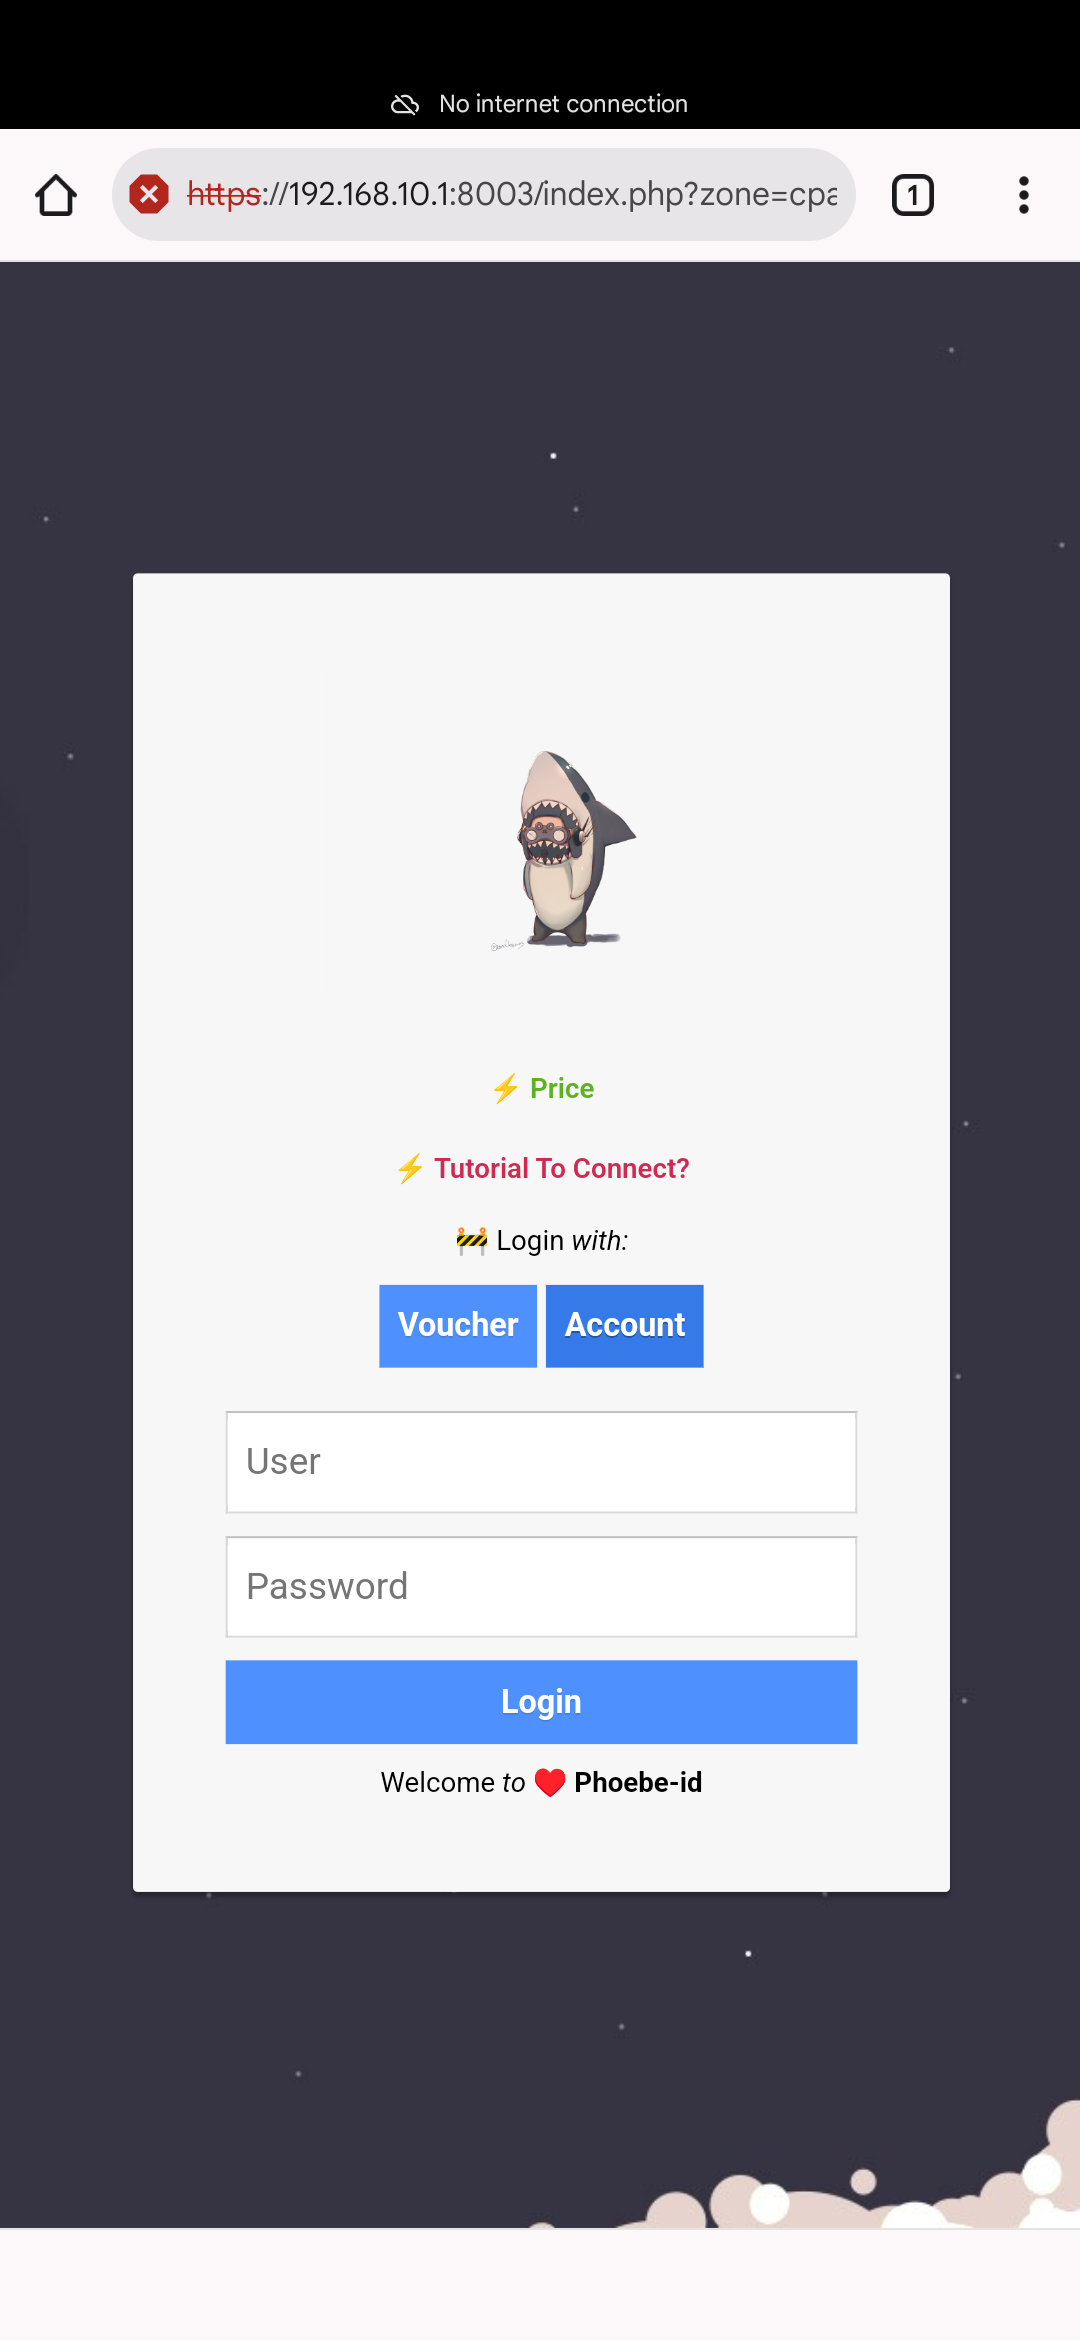
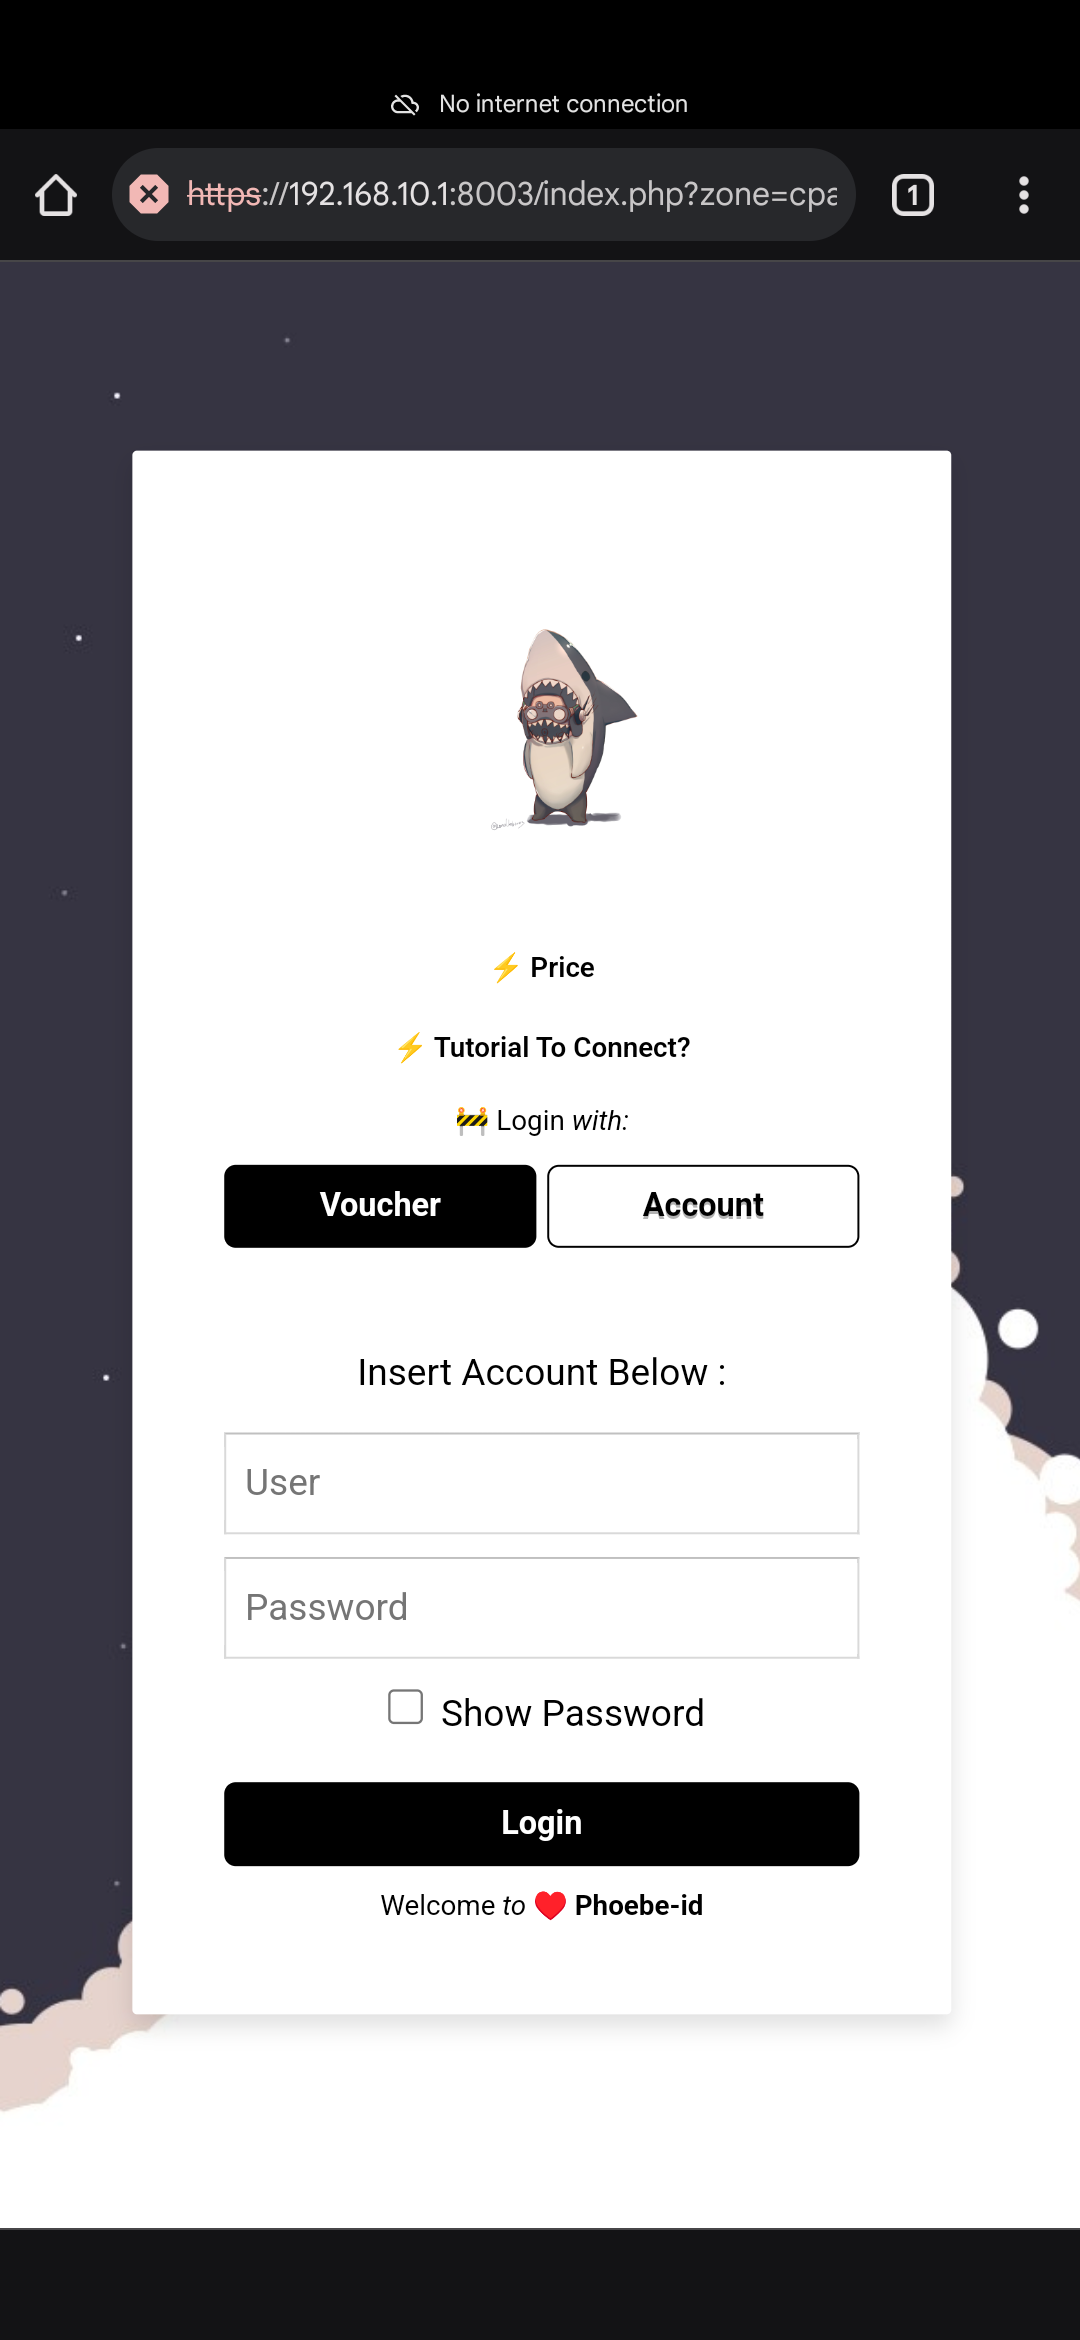
changed:fix back button

diff --git a/how-to.html b/how-to.html
@@ -55,7 +55,6 @@
         height: 40px;
         top: 65px;
         left: 15px;
-        background-color: #232327;
         border-radius: 20px;
         text-align: center;
         box-shadow: 1px 1px 3px #18181a;
@@ -70,7 +69,8 @@
         font-family: Arial, sans-serif;
         font-weight: 700;
         height: 36px;
-        padding: 0 8px;
+        padding:0px;
+        margin:0px;
       }
 
       .back-button {
@@ -80,7 +80,7 @@
         border: 0;
         color: #fff;
         text-shadow: 0 1px rgba(0, 0, 0, 0.1);
-        background-color: #232327;
+        background-color: #18181A;
       }
 
       .back-button:hover {
@@ -125,10 +125,10 @@
   </head>
   <body>
     <div class="center">
-      <h3>⚡🚧 Langkah Menghubungkan wifi Phoebe-id</h3>
       <button class="back back-button float" onclick="goBack()">
-        <span class="arrow">&#8592;</span>
+        <img alt="arrow-back" style="width:100%;height:100%;" src="assets/arrow_back.png" />
       </button>
+      <h3>⚡🚧 Langkah Menghubungkan wifi Phoebe-id</h3>
       <script>
         function goBack() {
           window.history.back();

diff --git a/portal.html b/portal.html
@@ -256,6 +256,7 @@
         flex-basis: 0;
       }
 
+
       @media screen and (max-width: 450px) {
         .login-card {
           width: 70% !important;
@@ -348,6 +349,18 @@
               placeholder="Password"
               id="auth_pass"
             />
+            <input type="checkbox"  onclick="togglePassword()" /> Show Password
+            <script>
+                function togglePassword() {
+                        var passInput = document.getElementById("auth_pass");
+                        if (passInput.type == "password"){
+                                passInput.type = "text";
+                        } else {
+                                passInput.type = "password";
+
+                        }
+                }
+            </script>
             <input name="redirurl" type="hidden" value="$PORTAL_REDIRURL$" />
             <!-- <input id="auth_voucher" name="auth_voucher" type="text" placeholder="Voucher"> -->
             <input name="zone" type="hidden" value="$PORTAL_ZONE$" />

diff --git a/error.html b/error.html
@@ -370,6 +370,18 @@
               placeholder="Password"
               id="auth_pass"
             />
+            <input type="checkbox"  onclick="togglePassword()" /> Show Password
+            <script>
+                function togglePassword() {
+                        var passInput = document.getElementById("auth_pass");
+                        if (passInput.type == "password"){
+                                passInput.type = "text";
+                        } else {
+                                passInput.type = "password";
+
+                        }
+                }
+            </script>
             <input name="redirurl" type="hidden" value="$PORTAL_REDIRURL$" />
             <!-- <input id="auth_voucher" name="auth_voucher" type="text" placeholder="Voucher"> -->
             <input name="zone" type="hidden" value="$PORTAL_ZONE$" />

diff --git a/logout.html b/logout.html
@@ -370,6 +370,18 @@
               placeholder="Password"
               id="auth_pass"
             />
+            <input type="checkbox"  onclick="togglePassword()" /> Show Password
+            <script>
+                function togglePassword() {
+                        var passInput = document.getElementById("auth_pass");
+                        if (passInput.type == "password"){
+                                passInput.type = "text";
+                        } else {
+                                passInput.type = "password";
+
+                        }
+                }
+            </script>
             <input name="redirurl" type="hidden" value="$PORTAL_REDIRURL$" />
             <!-- <input id="auth_voucher" name="auth_voucher" type="text" placeholder="Voucher"> -->
             <input name="zone" type="hidden" value="$PORTAL_ZONE$" />

diff --git a/price-to.html b/price-to.html
@@ -65,6 +65,7 @@
         font-family: Arial, sans-serif;
         font-weight: 700;
         height: 36px;
+        width:50px;
         padding: 0 8px;
       }
 
@@ -75,7 +76,7 @@
         border: 0;
         color: #fff;
         text-shadow: 0 1px rgba(0, 0, 0, 0.1);
-        background-color: #232327;
+        background-color: #18181A;
       }
 
       .back-button:hover {
@@ -126,7 +127,7 @@
     <div class="center">
       <h3>⚡🚧 Wifi Phoebe-id</h3>
       <button class="back back-button float" onclick="goBack()">
-        <span class="arrow">&#8592;</span>
+        <img alt="arrow-back" style="width:100%;height:100%;" src="assets/arrow_back.png" />
       </button>
       <script>
         function goBack() {
